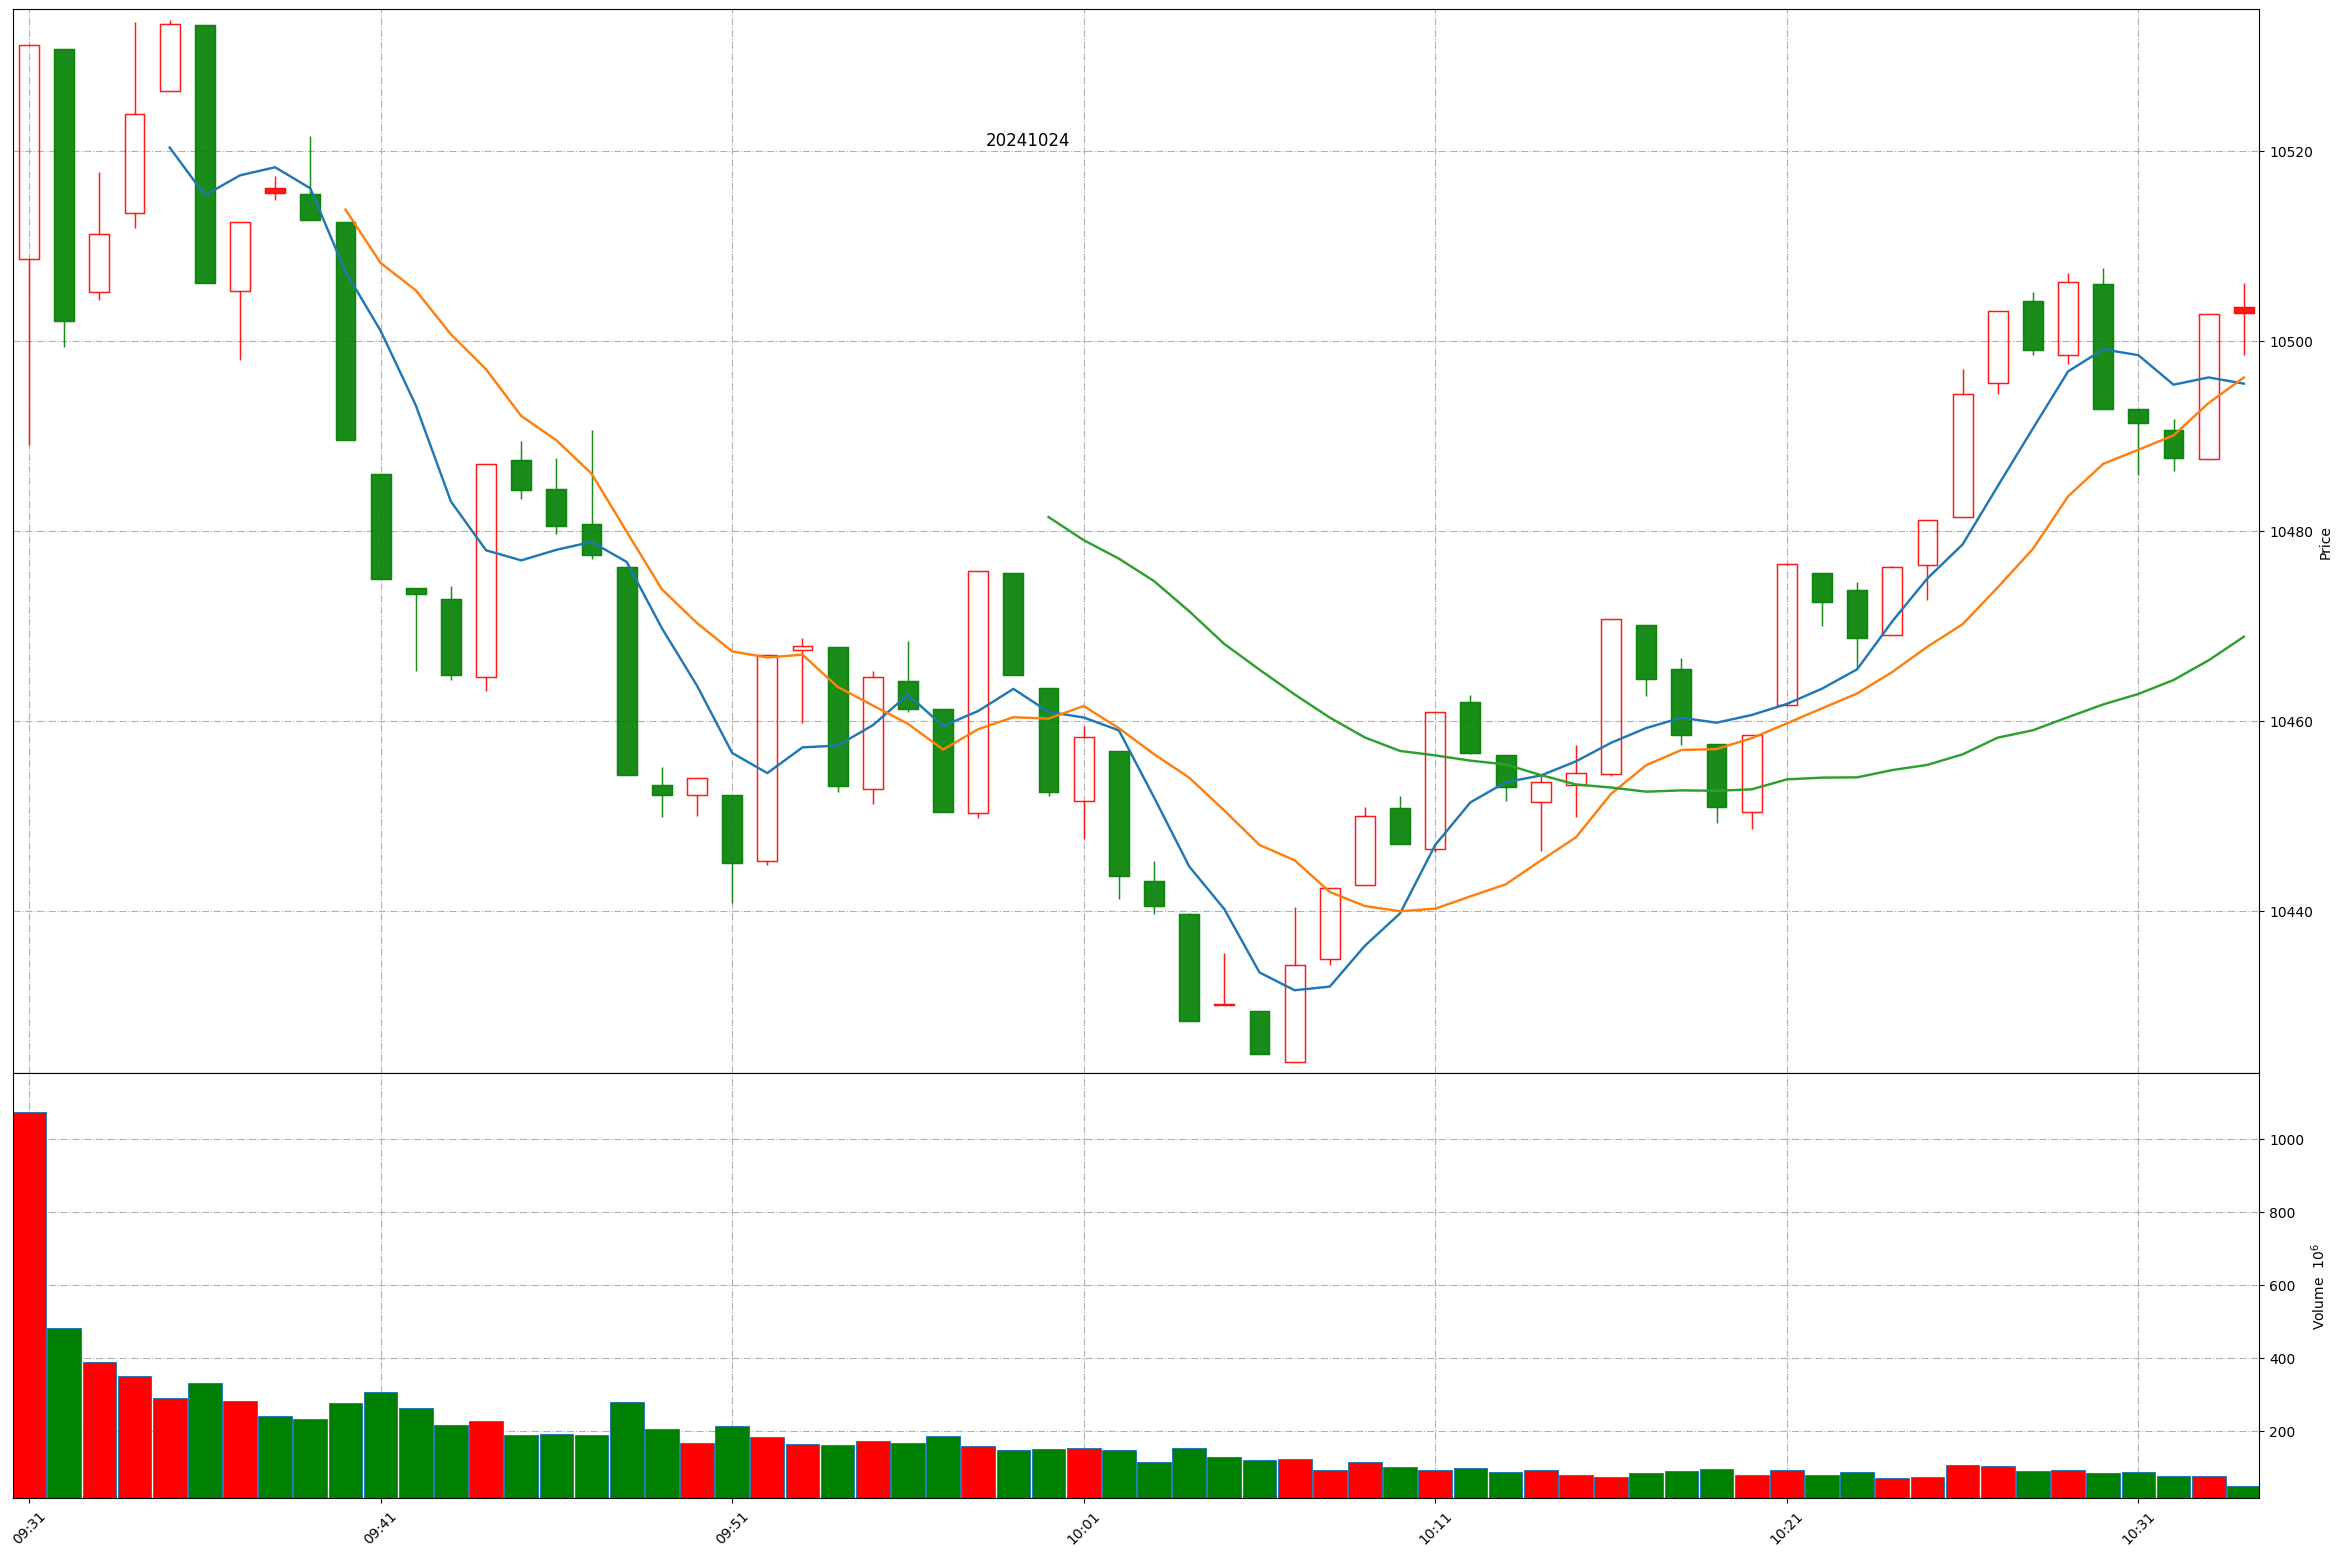
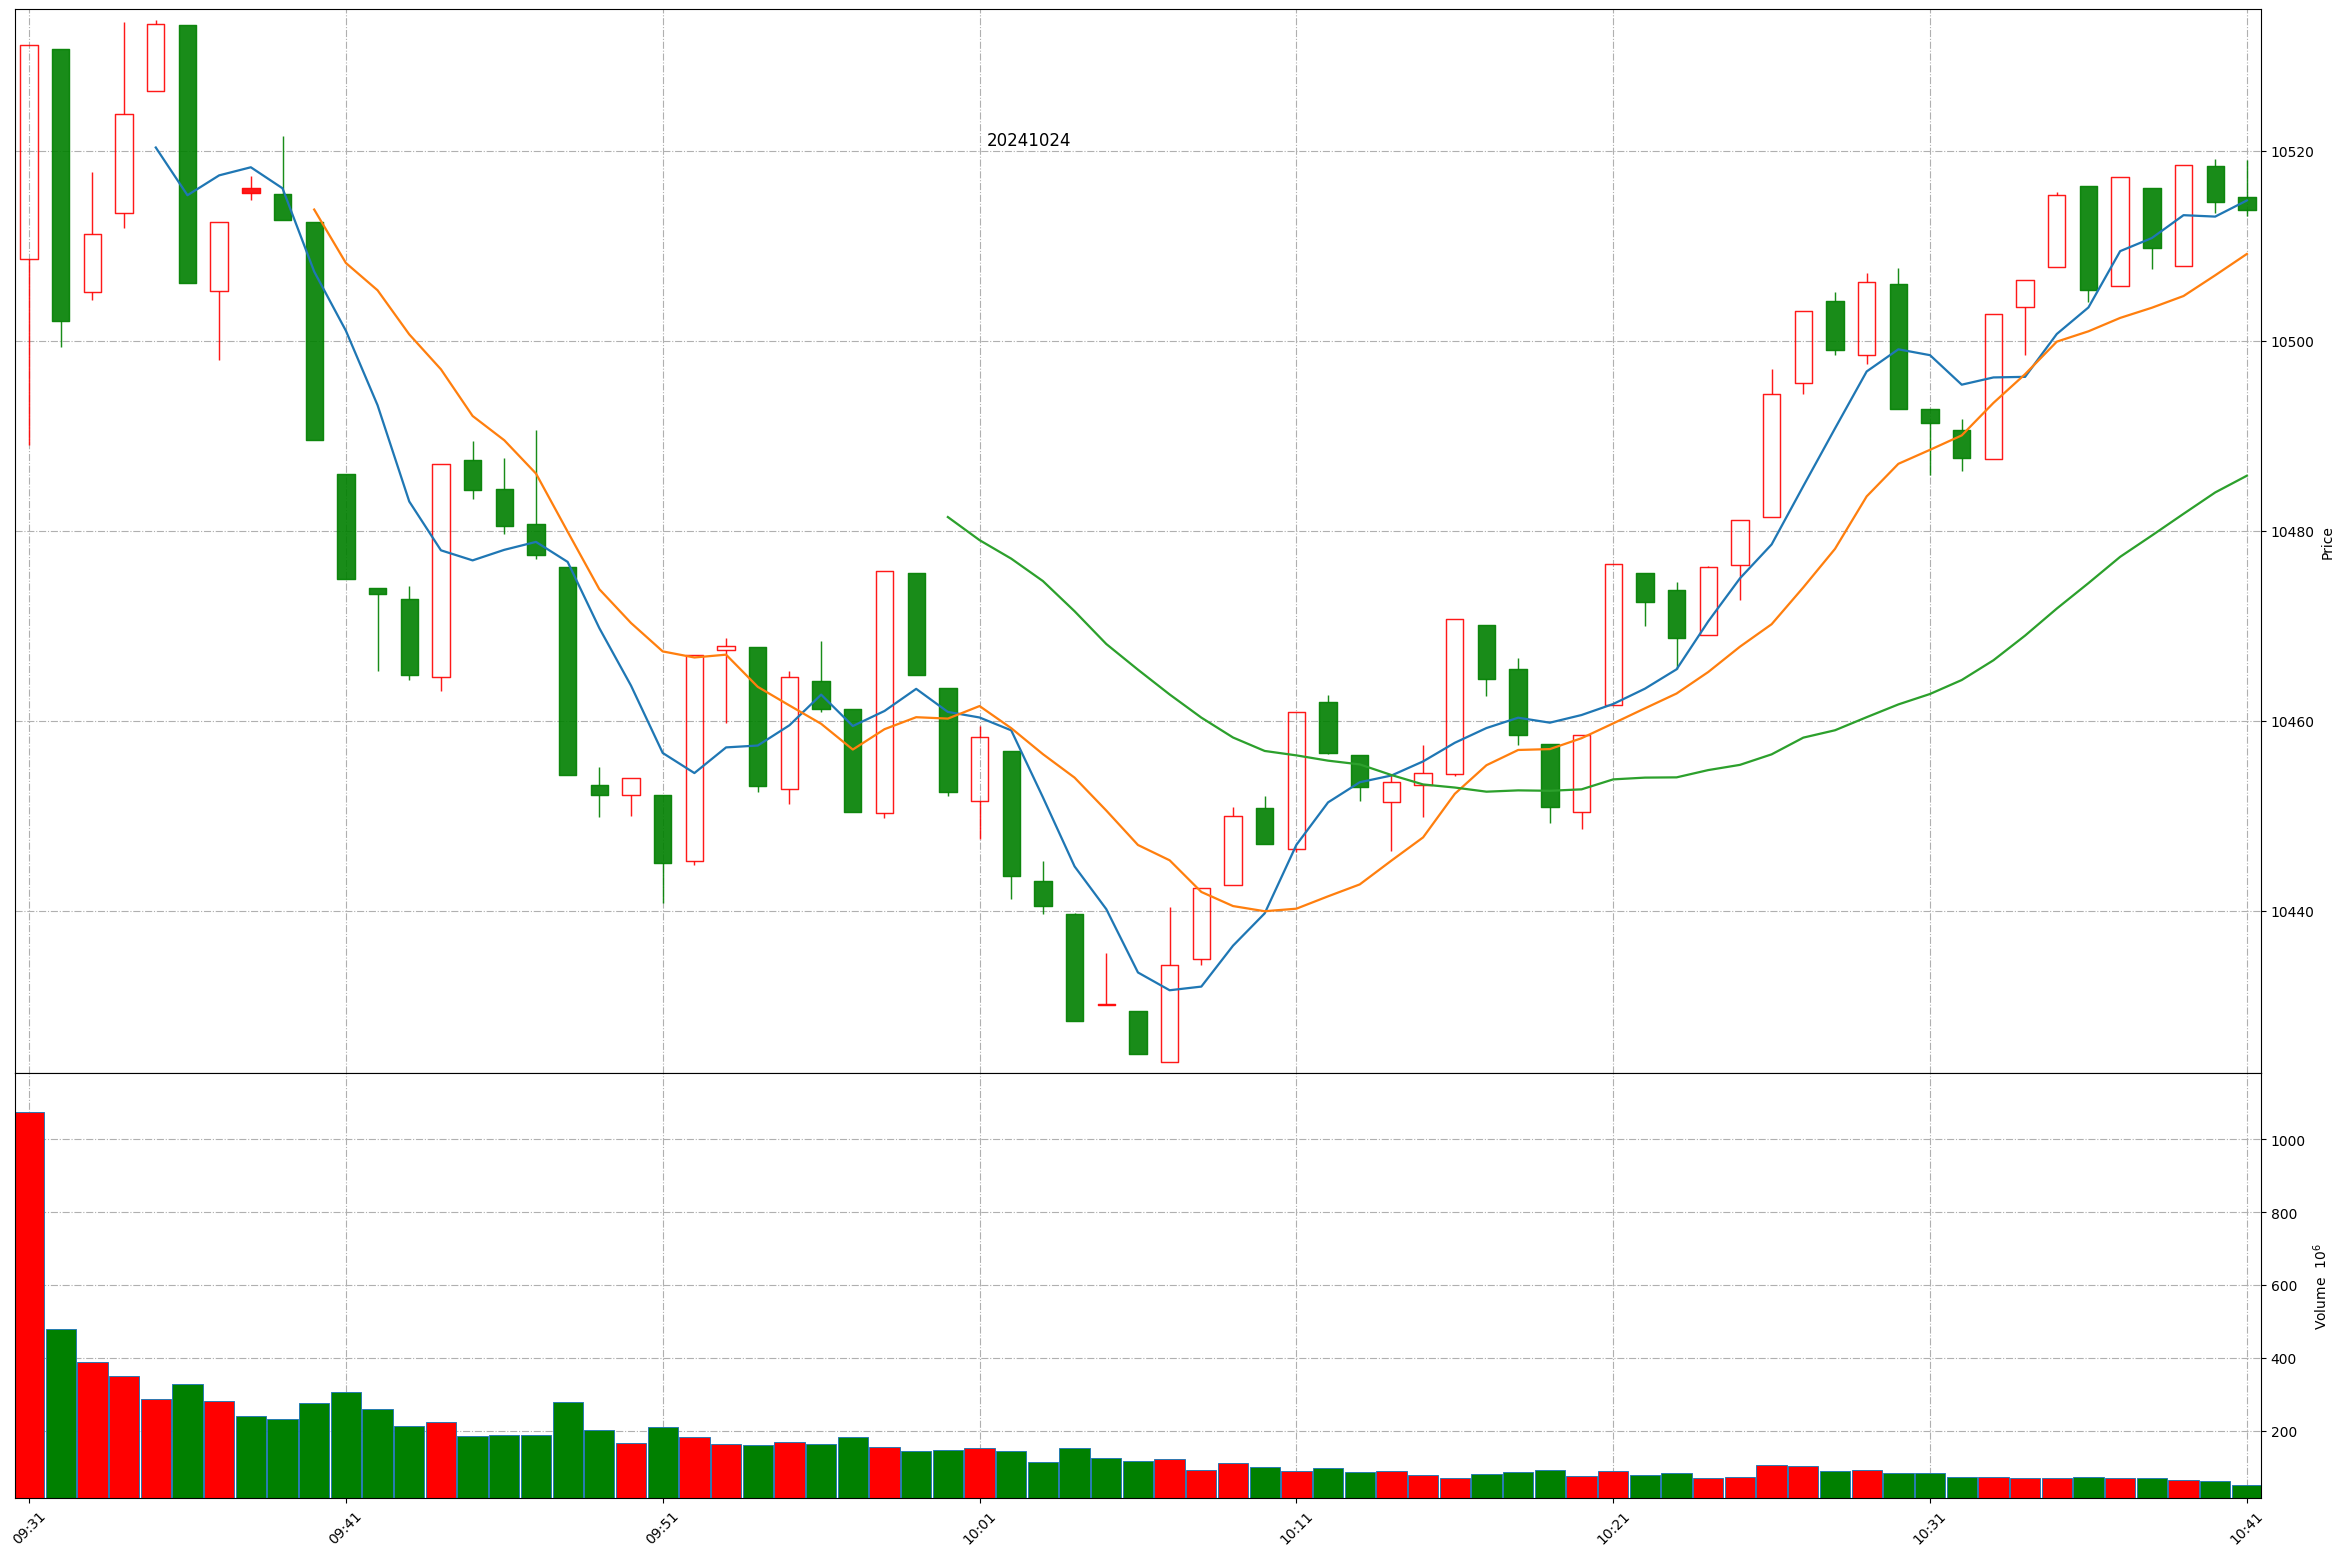
Github action update at 2024-10-24 10:41:00.

Changed region(s): [[0.0, 0.0, 0.9663, 0.6787], [0.0312, 0.8638, 0.9663, 0.9871]]

diff --git a/README.md b/README.md
@@ -1,11 +1,11 @@
 
 # Daily-A-share-market-quotes 每日 A 股指数（5min 更新）- 20241024
 
-### 上证指数 20241024 10:33
+### 上证指数 20241024 10:41
 ![](./fig/2024/10/20241024-sh000001.png)
 
-### 深证成指 20241024 10:33
+### 深证成指 20241024 10:41
 ![](./fig/2024/10/20241024-sz399001.png)
 
-### 北证50 20241024 10:33
+### 北证50 20241024 10:41
 ![](./fig/2024/10/20241024-bj899050.png)
